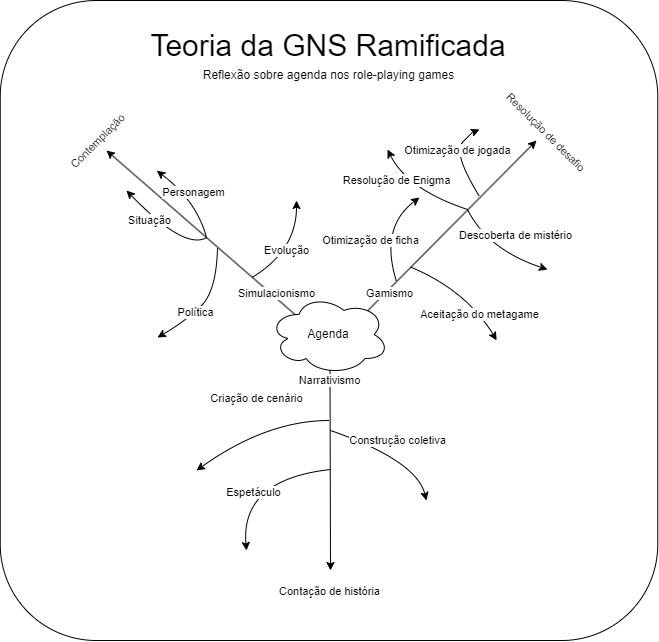
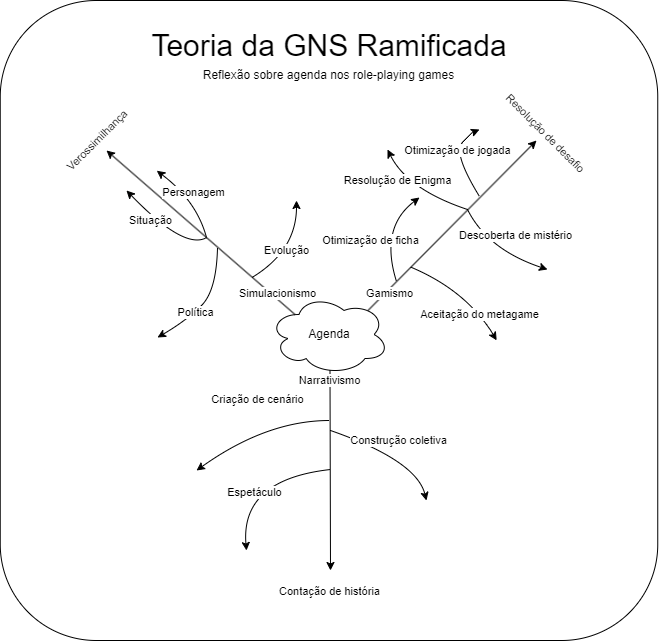
Fix: After feedbacks

diff --git a/_posts/2025-01-11-gns-ramificada.md b/_posts/2025-01-11-gns-ramificada.md
@@ -15,7 +15,7 @@ Através do prisma de que as três agendas se encontram sempre em uma disputa pe
 
 ## Vetorização
 Na física, vetores são utilizados para representar forças. O objetivo de vetorizar a GNS é mostrar que as agendas tendem a seguir diferentes caminhos, mas que existem direções intermediárias que não se tratam de de uma nova agenda, e sim um caminho híbrido entre duas delas. Essas forças tendem a direcionar o estilo de jogo (ou de jogar) em uma direção e esta diretiva eu chamo de **intenção máxima**.<br>
-Este é o objetivo central de cada agenda, o suprassumo daquela motivação. Para o Gamismo, resolução de desafio é o foco, o jogo em si, vencer. No narrativismo a intenção máxima é a conteção de história, a criação de fatos ficcionais que entretenham quem presencia. Já o simulacionismo, a contemplação, a ação de poder vivenciar aquela experiência como se fosse a realidade e, através da verossimilhança, sentir-se imerso em uma realidade alternativa coerente.
+Este é o objetivo central de cada agenda, o suprassumo daquela motivação. Para o Gamismo, resolução de desafio é o foco, o jogo em si, vencer. No narrativismo a intenção máxima é a contação de histórias, a criação de fatos ficcionais que entretenham quem presencia. Já o simulacionismo, a contemplação, a ação de poder vivenciar aquela experiência como se fosse a realidade e, através da verossimilhança, sentir-se imerso em uma realidade alternativa coerente.
 
 ![GNS Vetorizada](/assets/img/teorias/gns-ramificada/gns-vetorizada.png){: w="565" h="1032" }
 _Esta é a representação gráfica da vetorização da GNS, onde três linhas partem do centro em direção noroeste, nordeste e sul, rumo a suas respectivas intenções máximas_

diff --git a/_posts/2024-08-13-mecanica-de-bando-p2.md b/_posts/2024-08-13-mecanica-de-bando-p2.md
@@ -2,7 +2,7 @@
 title: Mecânica de Bando (parte 2) - Esquadrões
 date: 2024-08-13 23:00 -0300
 categories: [Módulo, Mecânica de Bando]
-tags: [modulo-de-regras, mecanica-de-bando, guia-de-campanha, esquadroes]
+tags: [modulo-de-regras, mecanica-de-bando, guia-de-campanha, ferramentas ,recursos]
 author: coppolaop
 ---
 
